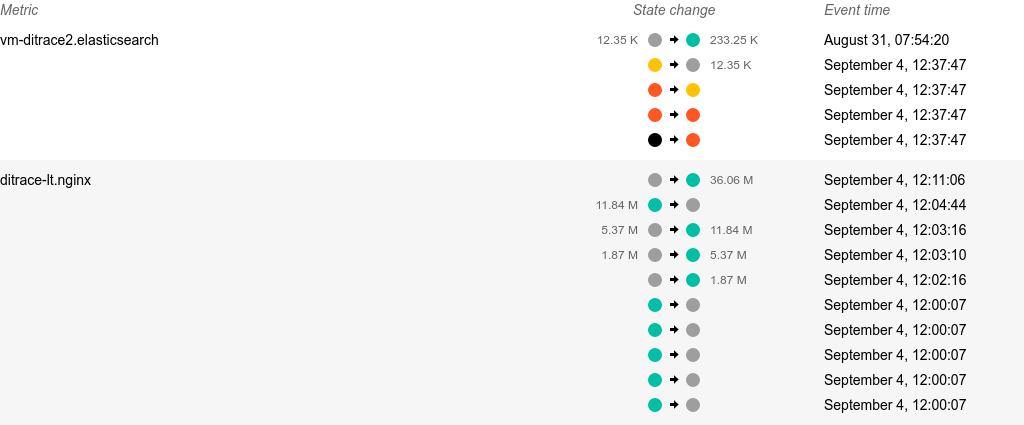
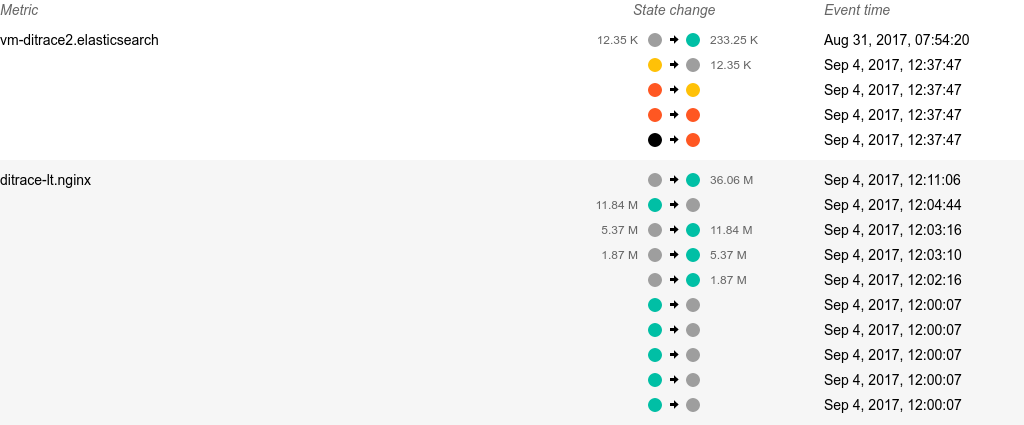
change event history date format

diff --git a/src/Components/EventList/EventList.tsx b/src/Components/EventList/EventList.tsx
@@ -56,7 +56,7 @@ export default function EventList(props: Props): React.ReactElement {
                                         </div>
                                     </div>
                                     <div className={cn("date")}>
-                                        {format(fromUnixTime(timestamp), "MMMM d, HH:mm:ss")}
+                                        {format(fromUnixTime(timestamp), "MMM d, y, HH:mm:ss")}
                                     </div>
                                 </div>
                             );
